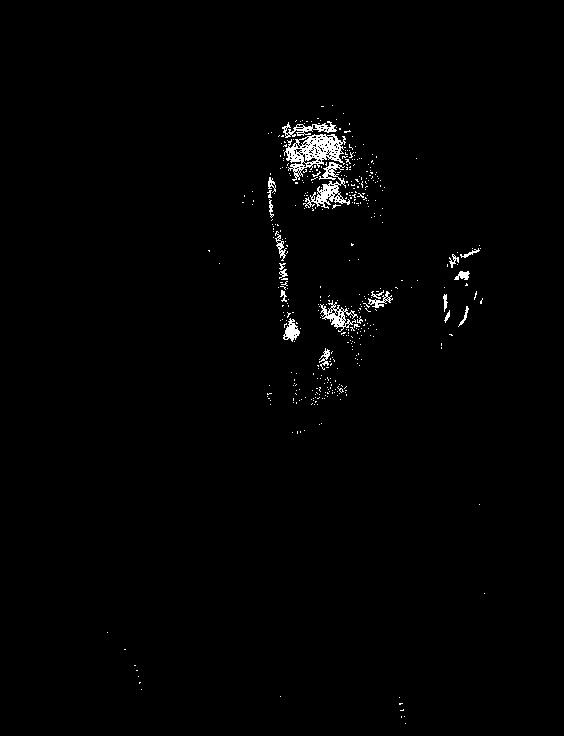
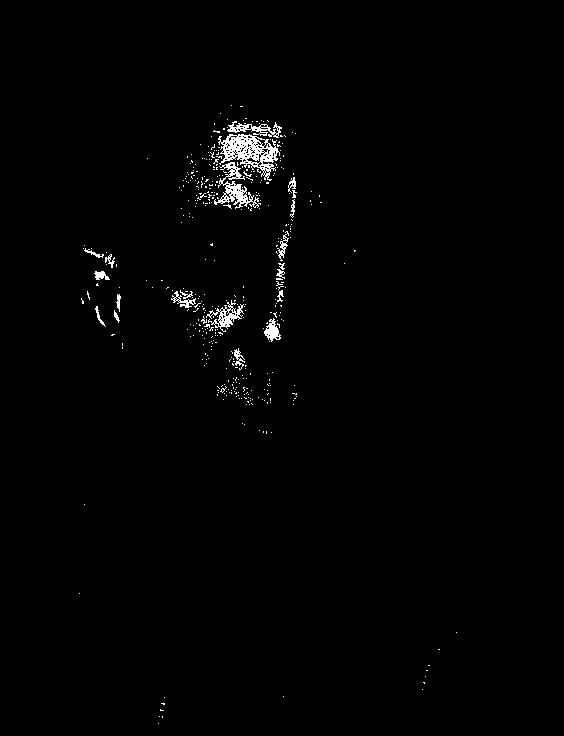
working as desired, code is messy

diff --git a/main.py b/main.py
@@ -43,7 +43,11 @@ output_image_suffix = ".jpg"
 threshold_lines = [25, 50, 75, 85]
 
 raw_image = Image.open(input_image_path)
+raw_image = raw_image.transpose(Image.FLIP_LEFT_RIGHT)
 dump_histogram(raw_image, "./output/histogram.jpg", threshold_lines)
+
+posterized_img = raw_image.quantize(colors=6)
+posterized_img = posterized_img.convert("RGB")
 
 shadow_img = apply_threshold(raw_image, threshold_lines[0])
 midtone_img = apply_threshold(raw_image, threshold_lines[1])
@@ -54,4 +58,23 @@ shadow_img.save(os.path.join(output_image_dir, "shadow" + output_image_suffix))
 midtone_img.save(os.path.join(output_image_dir, "midtone" + output_image_suffix))
 fleshtone_img.save(os.path.join(output_image_dir, "fleshtone" + output_image_suffix))
 highlights_img.save(os.path.join(output_image_dir, "highlights" + output_image_suffix))
+raw_image.save(os.path.join(output_image_dir, "orig_mirrored" + output_image_suffix))
+posterized_img.save(os.path.join(output_image_dir, "posterized" + output_image_suffix))
+
+# images_to_composite = [shadow_img, midtone_img, fleshtone_img, highlights_img]
+images_to_composite = [highlights_img, fleshtone_img, midtone_img, shadow_img]
+
+composite_image = Image.new('RGBA', shadow_img.size, (255, 255, 255, 255))
+
+## Stack the thresholded images with varying saturation levels
+for i, thresholded_image in enumerate(images_to_composite):
+    alpha_channel = thresholded_image.point(lambda x: 0 if x > 0 else 255, 'L')
+    thresholded_image = thresholded_image.convert("RGBA")
+    thresholded_image.putalpha(alpha_channel)
+    saturation_level = i / (len(images_to_composite) - 1)  # Vary saturation from 0 to 1
+    blended_image = Image.blend(composite_image, thresholded_image, saturation_level)
+    composite_image.paste(blended_image, (0, 0), blended_image)
+
+# Save the composite image
+composite_image.save("./output/composite.png")
 
